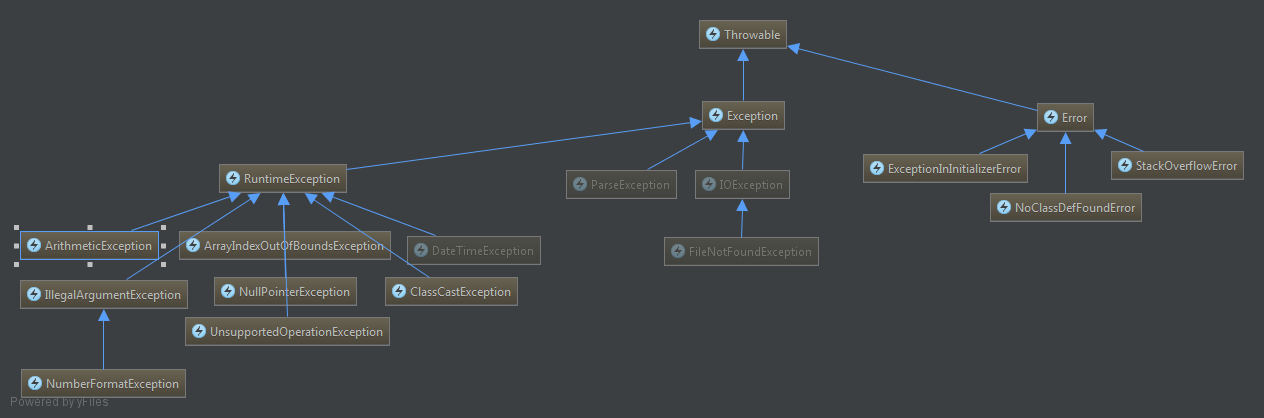
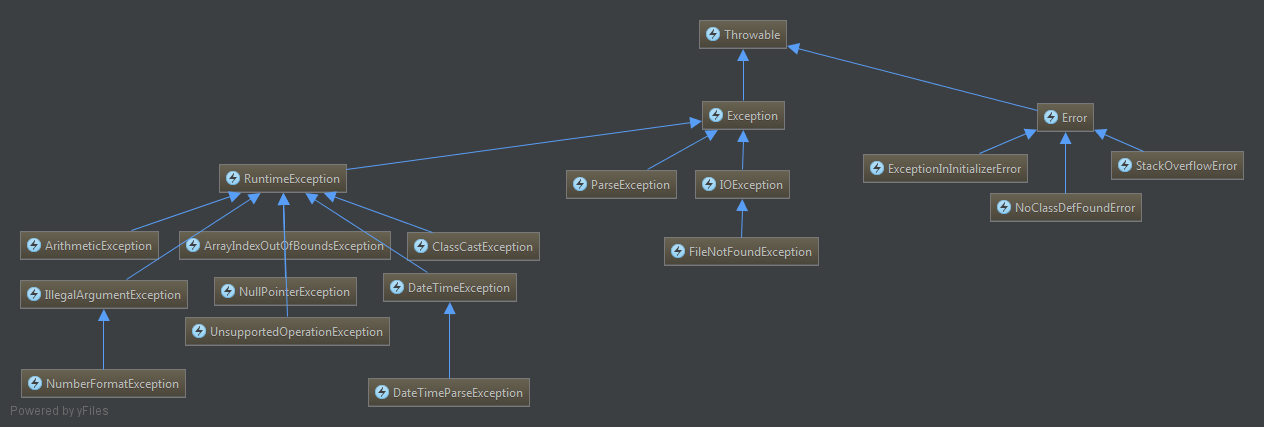
+ DateTimeParseException

diff --git a/src/be/zatenzu/oca/js8/time/Main.java b/src/be/zatenzu/oca/js8/time/Main.java
@@ -84,7 +84,7 @@ public class Main{
     /** public static LocalDate parse(CharSequence charSeq, DateTimeFormatter formatter)*/
     DateTimeFormatter formatterA = DateTimeFormatter.ofPattern("ddMMyyyy HH:mm:ss");
     DateTimeFormatter formatterB = DateTimeFormatter.ofPattern("ddMMyyyy HH:mm:ss", Locale.FRANCE);
-    LocalDate.parse("01051986 22:22:22", formatterA);
+    LocalDate.parse("01051986 22:22:22", formatterA);//can throw DateTimeParseException
     LocalDate.parse("01051986 22:22:22", formatterB);
 
     /*************************************/
